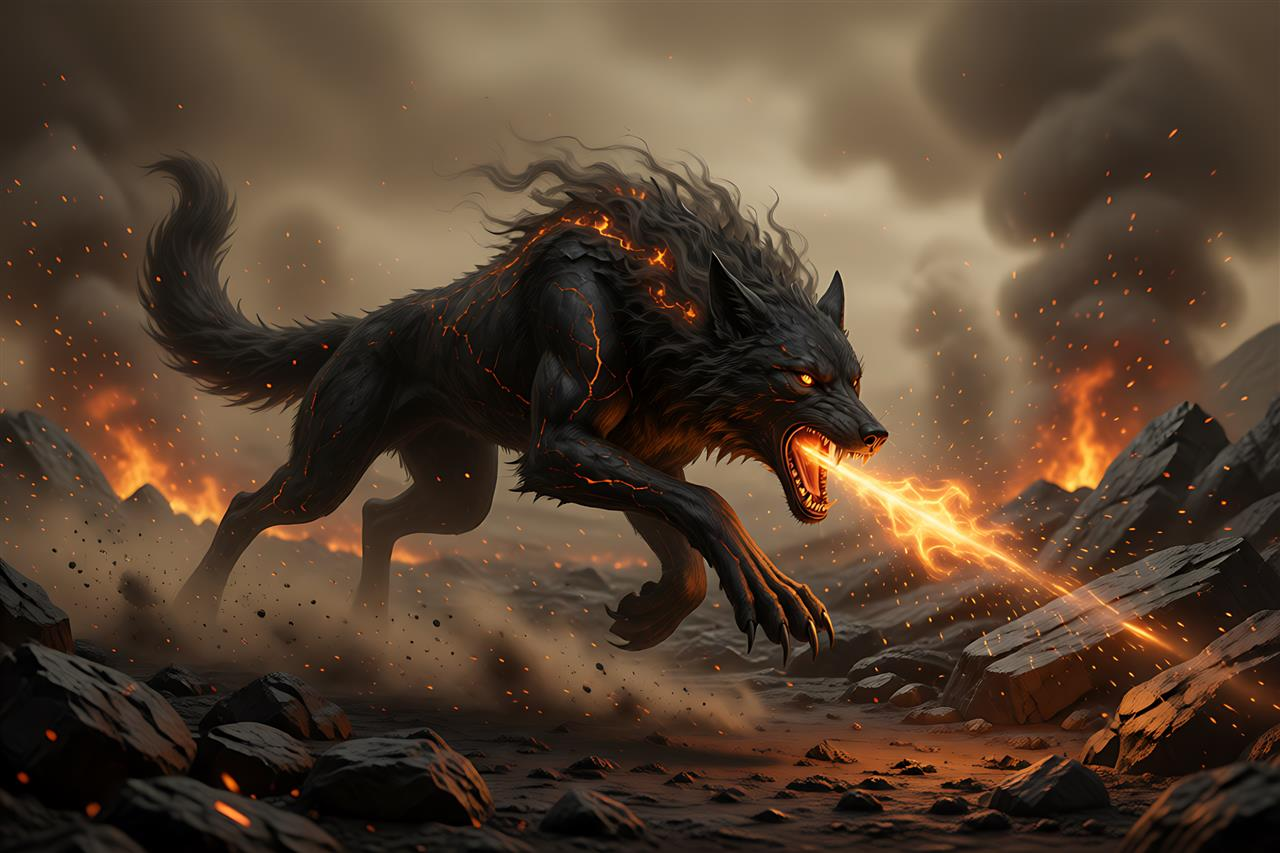
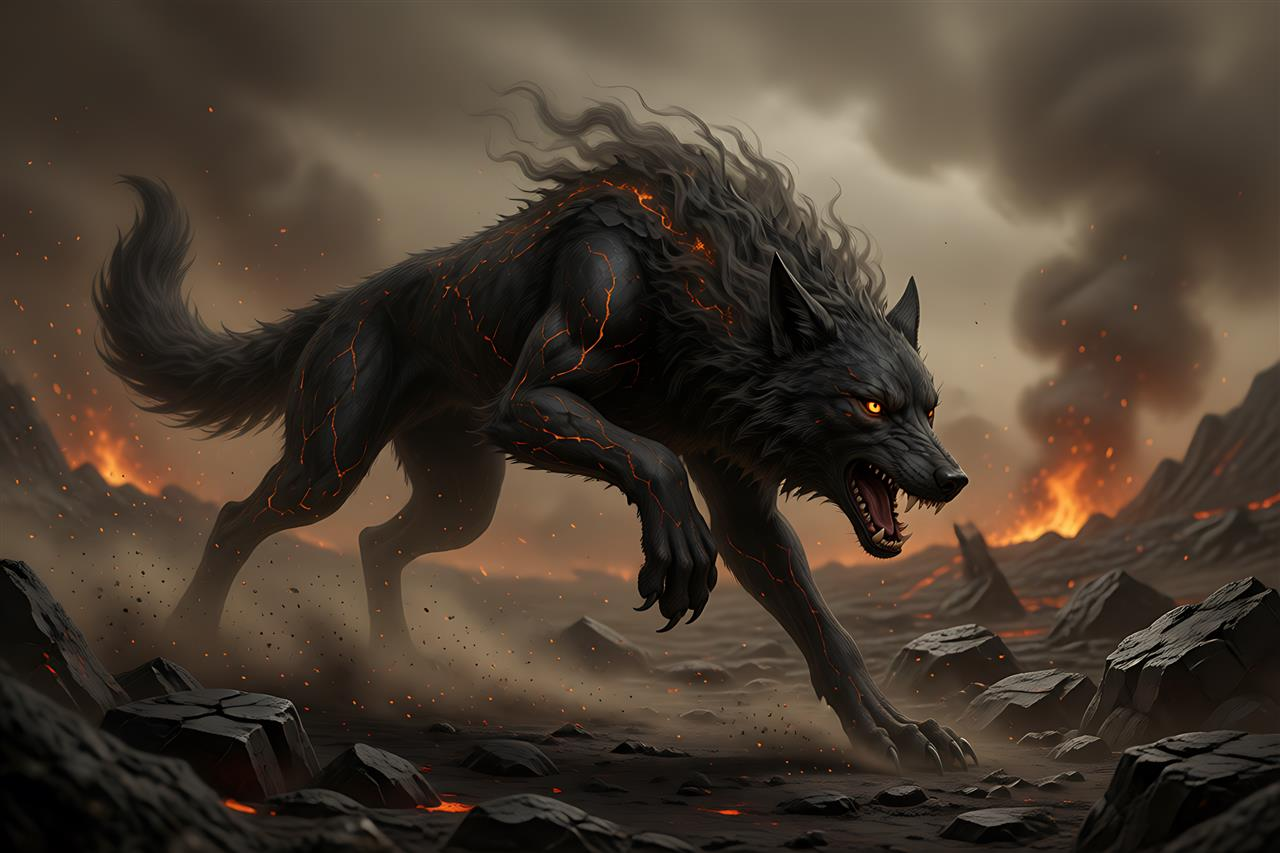
art: искромёт — атака без плевка, мёртвый с закрытыми глазами и ранами

diff --git a/docs/current/2026-11-07-ui-slice/result.md b/docs/current/2026-11-07-ui-slice/result.md
@@ -504,6 +504,8 @@
 
 Проверено в Play Mode: встреча показывает волка Искромёта (`pending=Encounter`, модал открыт), после боя — тушу с мёртвым артом и кнопкой «освежевать — Брунни · мастер». Скриншоты `monster-encounter.png`, `monster-carcass.png`.
 
+**Правка Искромёта по замечанию:** атака переснята **без огненного плевка из пасти** (только поза броска, когти и искры из трещин); мёртвый — переснят **с закрытыми глазами** и несколькими глубокими ранами, кровь на шкуре и в луже под телом. Поиск оставлен прежним — он и нравился.
+
 ## Заметки на будущее
 
 - `UIDocument.panelSettings`, назначенный сеттером из скриптовой сборки сцены, **не сериализуется** (`m_PanelSettings: {fileID: 0}`) — экран чёрный. Ставить через `SerializedObject` и сохранять сцену.
